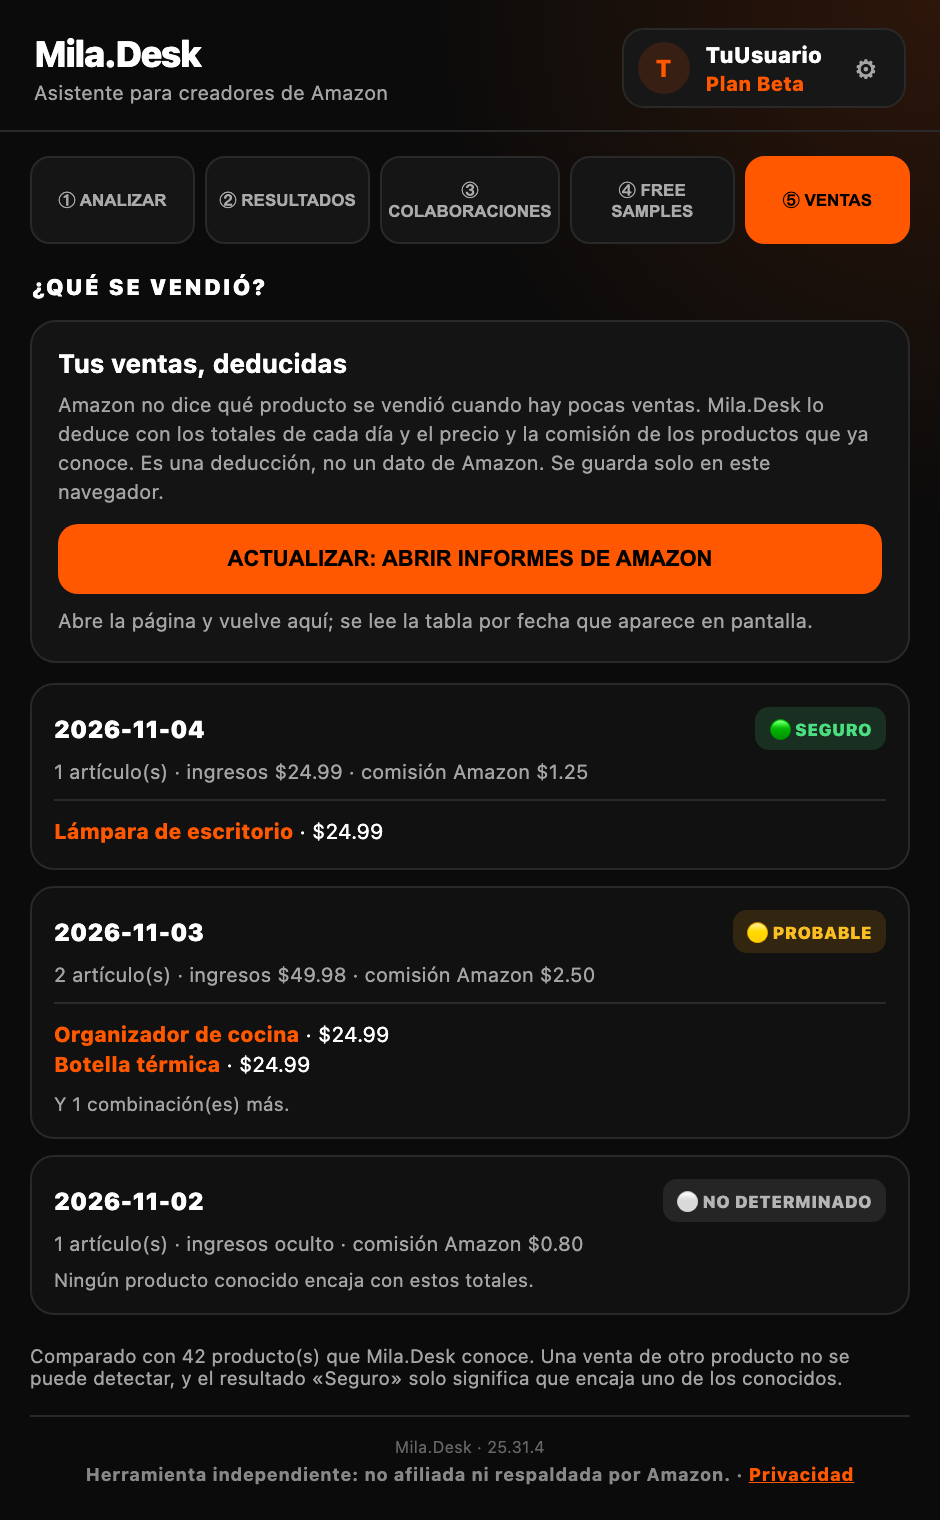
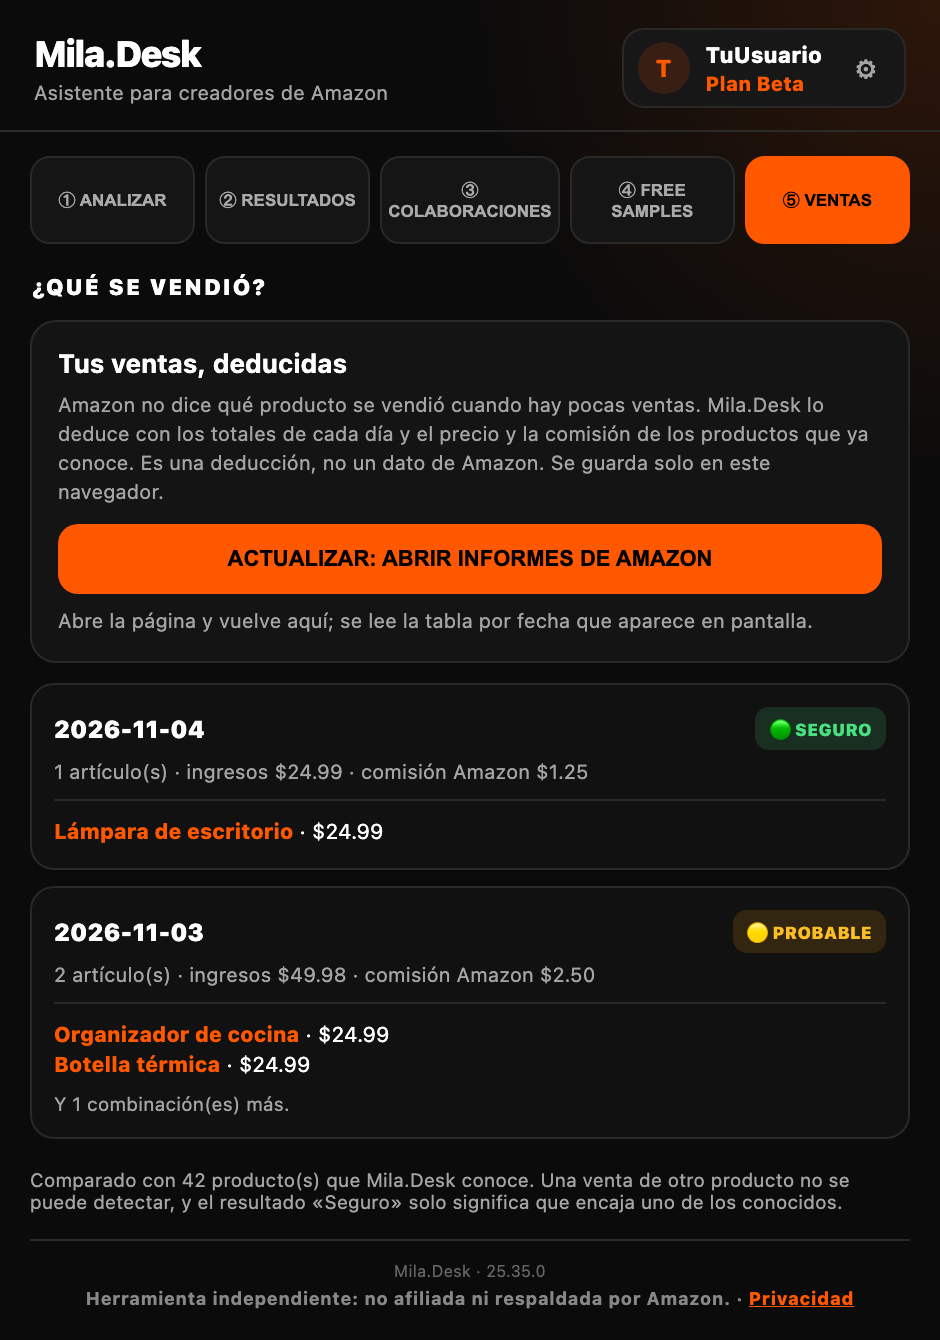
Guide: Sales for 25.35.0; beta notice removed

diff --git a/guia.html b/guia.html
@@ -367,7 +367,6 @@ footer { border-top: 1px solid var(--line); padding-block: 30px 42px; color: var
 
       <article class="step" id="ventas">
         <div class="step-head"><span class="num" aria-hidden="true">10</span><span class="tag pro">Premium</span><h2>Descubre qué se vendió</h2></div>
-        <p class="tip glass"><strong>Aviso de la beta:</strong> esta sección todavía no funciona al 100 % y puede no mostrar tus días más recientes. Se corregirá en la próxima actualización.</p>
         <p>Cuando hay pocas ventas, Amazon no te dice qué producto se vendió. Mila.Desk lo deduce con los totales de cada día y con el precio y la comisión de los productos que ya conoce.</p>
         <ol class="todo">
           <li><span>En <span class="ui">⑤ VENTAS</span>, pulsa <span class="ui">ACTUALIZAR: ABRIR INFORMES DE AMAZON</span>.</span></li>
@@ -377,9 +376,9 @@ footer { border-top: 1px solid var(--line); padding-block: 30px 42px; color: var
         <div class="rows">
           <div class="row two"><b>🟢 Seguro</b><span>Solo encaja uno de los productos que Mila.Desk conoce.</span></div>
           <div class="row two"><b>🟡 Probable</b><span>Hay varias combinaciones posibles, o solo coincide parte de los datos.</span></div>
-          <div class="row two"><b>⚪ No determinado</b><span>Los datos no alcanzan para decirlo.</span></div>
         </div>
-        <div class="frame narrow glass"><img src="assets/guia-ventas.png" width="940" height="1520" alt="Pestaña Ventas con días marcados como Seguro, Probable y No determinado." loading="lazy"></div>
+        <p>Los días en los que Mila.Desk no puede identificar el producto no aparecen en la lista.</p>
+        <div class="frame narrow glass"><img src="assets/guia-ventas.png" width="940" height="1340" alt="Pestaña Ventas con un día marcado como Seguro y otro como Probable." loading="lazy"></div>
         <p class="tip glass"><strong>Tenlo en cuenta:</strong> es una deducción, no un dato de Amazon. Una venta de un producto que Mila.Desk no conoce no se puede detectar. Mientras más productos veas con Video Intelligence, más tiene con qué comparar. Estos datos se quedan en tu navegador.</p>
       </article>
 

diff --git a/beta.html b/beta.html
@@ -30,7 +30,7 @@
   <div class="brand"><div class="logo">M</div><span>Mila.Desk</span></div>
   <h1>Instalar la beta de Mila.Desk</h1>
   <p class="lead">Gracias por probar Mila.Desk, el asistente para creadores de Amazon Creator Connections. Instalarla toma unos 3 minutos en Google Chrome (Mac o Windows).</p>
-  <p class="note">Instala desde <a href="https://chromewebstore.google.com/detail/pgndgladpapgkejoldmncgeablnihjdk" target="_blank" rel="noopener"><b>Mila.Desk en Chrome Web Store</b></a>. La pestaña Ventas todavía no funciona al 100 %; se corregirá en la próxima actualización.</p>
+  <p class="note">Instala desde <a href="https://chromewebstore.google.com/detail/pgndgladpapgkejoldmncgeablnihjdk" target="_blank" rel="noopener"><b>Mila.Desk en Chrome Web Store</b></a>.</p>
 
   <h2>1. Instalar la extensión</h2>
   <ol>
